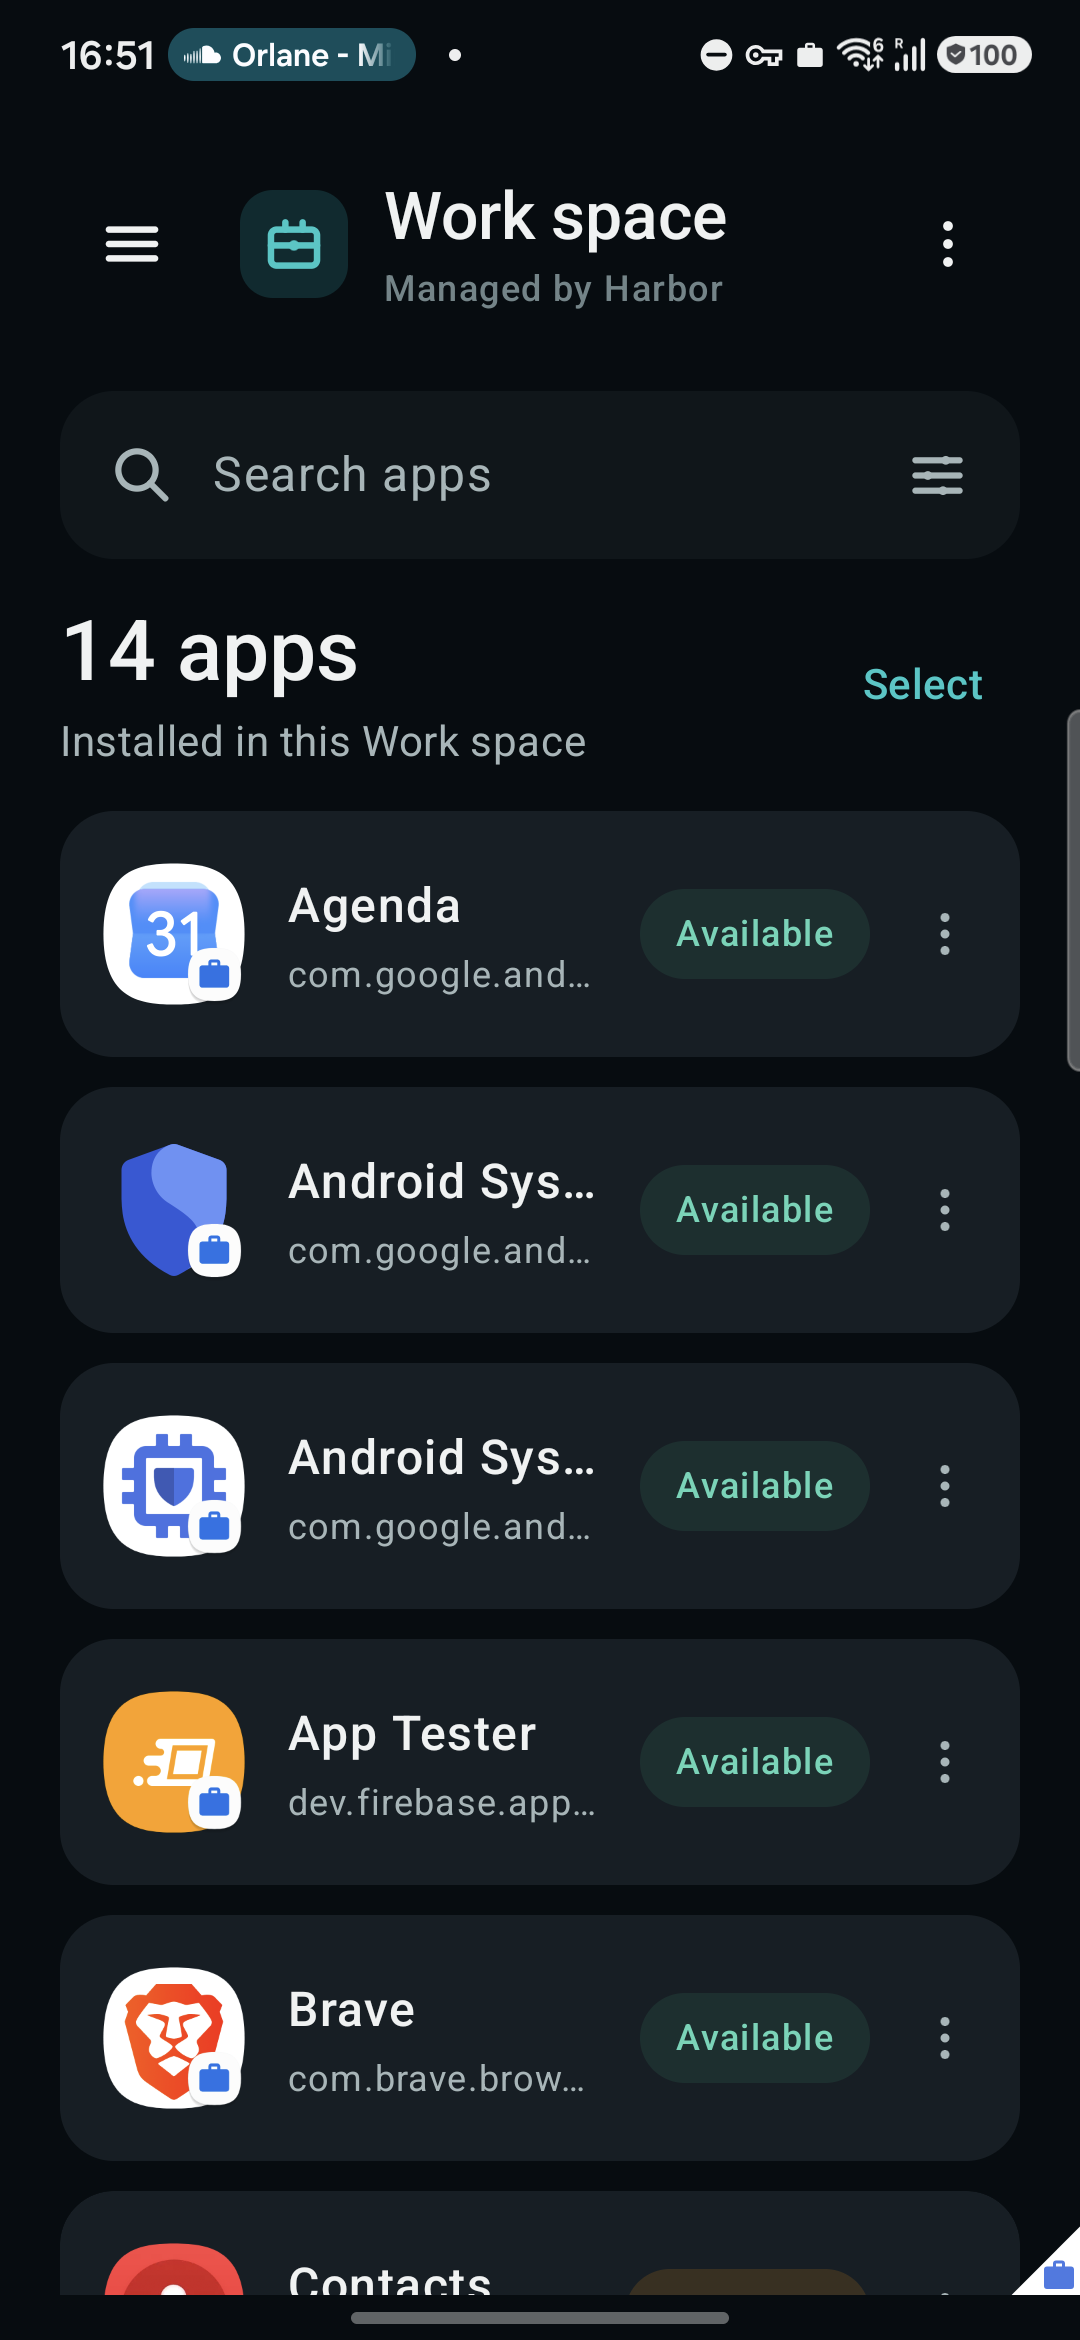
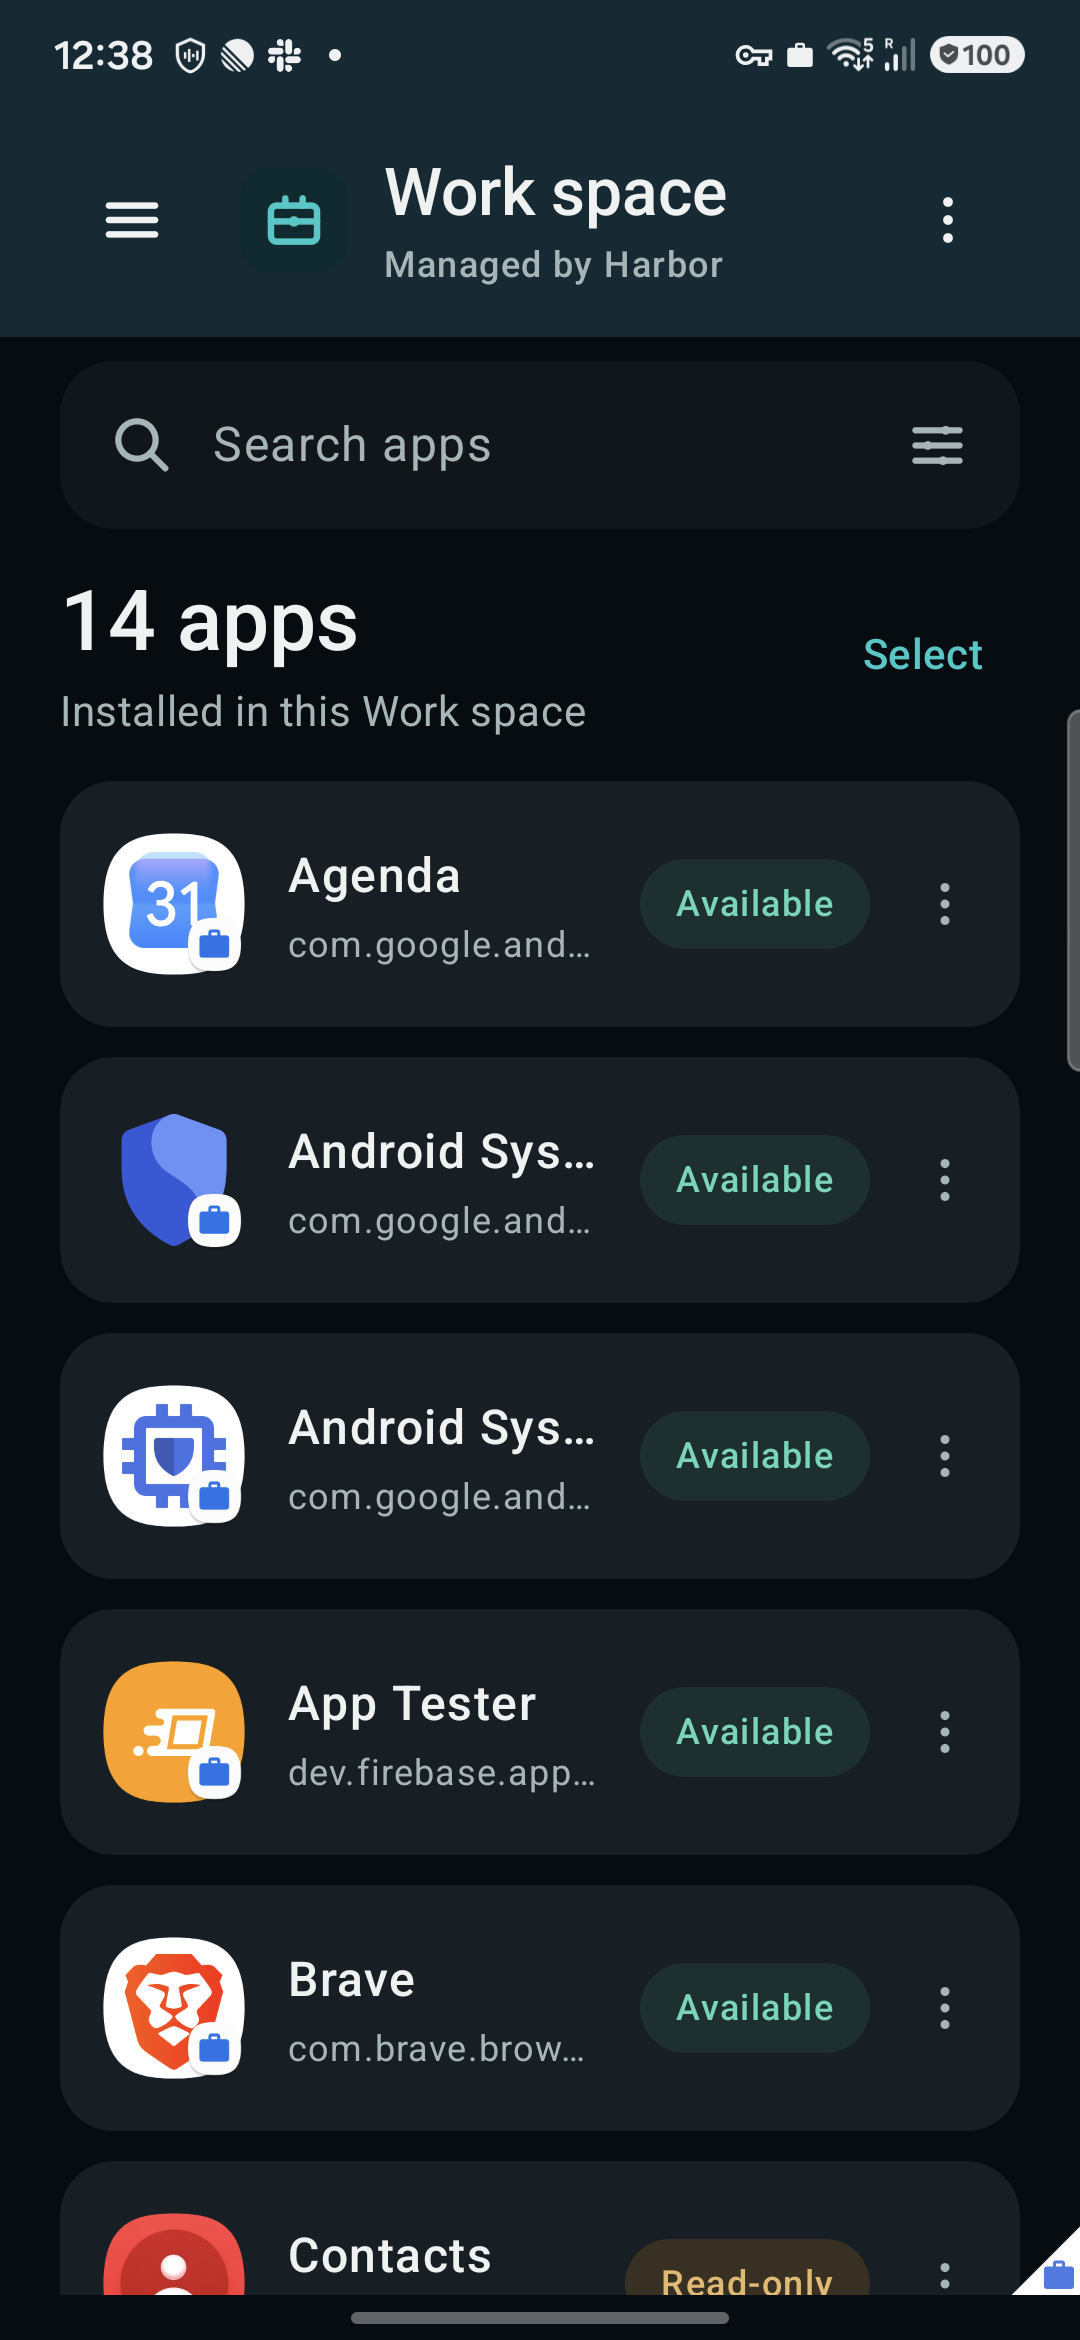
Record final Work profile validation

diff --git a/docs/design/PR6_FINAL_VALIDATION_CHECKLIST.md b/docs/design/PR6_FINAL_VALIDATION_CHECKLIST.md
@@ -8,7 +8,7 @@ Do not mark an item as passed unless it was actually exercised on the recorded b
 
 - Latest final code head: `1625232`
 - Latest physically validated Personal runtime: `1625232`
-- Latest physically validated Work runtime: `74d601c` (Samsung does not permit replacing the Work APK with ADB shell)
+- Latest physically validated Work runtime: `1625232`
 - APK/build: `app/build/outputs/apk/release/app-release-unsigned.apk` — version `0.2.0-alpha05` (versionCode `7`)
 - Date: `2026-08-13`
 - Tester: `Codex` — automated checks plus Samsung Galaxy S24 smoke test via ADB
@@ -28,13 +28,12 @@ Do not mark an item as passed unless it was actually exercised on the recorded b
 
 ## Physical-device execution status
 
-Physical validation is **PARTIAL**. The signed hero-background review-fixes build is installed
-for Personal user `0`; the Personal hero, Open Work navigation, normal and
-200% font-scale layouts, and the launcher/app-info icon were exercised. The
-Open Work callback opened the existing Harbor instance as user `12`. Samsung
-blocks ADB shell installation targeted at work-profile user `12`, so the Work
-instance remains on the previously installed runtime and Work-specific checks
-are not claims about the final APK.
+Physical validation is **PARTIAL**. The final signed build was installed for
+both profiles with `adb install -r <apk>` and no `--user` argument. Personal
+user `0` and Work profile user `12` remained installed, and the real Open Work
+callback opened the final Work instance. The final Personal hero and final Work
+header/catalog were exercised on the Samsung S24. Selection, large-font Work
+actions, and bottom-sheet interaction checks remain pending.
 
 ## Visual validation
 
@@ -42,7 +41,7 @@ are not claims about the final APK.
 - [x] Dark theme: no clipping, overlap, illegible contrast, or broken surfaces.
 - [x] Large font / approximately 200%: primary actions remain visible and usable after scrolling.
 - [x] Long app labels do not break the compact Work app rows.
-- [ ] Bottom sheets remain scrollable and dismiss correctly (final Work build pending).
+- [ ] Bottom sheets remain scrollable and dismiss correctly (interaction not exercised in this pass).
 - [x] Status pills remain readable and are not color-only.
 - [x] Destructive actions are clearly distinguishable.
 
@@ -52,8 +51,8 @@ Samsung Galaxy S24 / Android 16 screenshots were captured at 1080×2340. Harbor
 keeps the Direction 2 surfaces dark when Android switches to light mode; the
 screen remained readable. At 200% font scale, the final build's primary CTA and
 quick-action tiles remained reachable by scrolling; the bottom navigation stayed
-usable and labels remained readable. The Work app action sheet was observed on
-the previous Work-profile runtime, not the final APK.
+usable and labels remained readable. Work catalog scrolling was exercised on the
+final Work runtime; bottom-sheet interaction remains pending.
 
 Targeted Direction 2 polish validation on the same signed alpha05 build:
 
@@ -87,9 +86,8 @@ validation is recorded below.
 
 Large-font validation was performed on the final Personal runtime and passed
 for the Personal hero, CTA, quick actions, and bottom navigation. TalkBack
-validation remains untested. Final-build Work large-font validation remains
-pending because Samsung does not allow the final APK to be installed into the
-Work user through ADB shell.
+validation remains untested. Final-build Work large-font selection and sheet
+checks remain pending even though the final Work APK is now installed.
 
 ## Personal dashboard
 
@@ -107,7 +105,7 @@ Work user through ADB shell.
 Persistent-header and Work accessibility checks:
 
 - [x] Personal branded header is visible on the full-width blue/teal surface and remains visible while dashboard content scrolls.
-- [ ] Work branded header is visible on the full-width blue/teal surface and remains visible while app catalog scrolls (final Work build pending).
+- [x] Work branded header is visible on the full-width blue/teal surface and remains visible while app catalog scrolls.
 - [ ] Entering selection replaces the Work header with the selection header.
 - [ ] Exiting selection restores the Work branded header.
 - [ ] Selection header remains usable at approximately 200% font.
@@ -119,9 +117,9 @@ Persistent-header and Work accessibility checks:
 Notes / untestable states:
 
 On the Samsung S24, Personal showed the active Harbor-managed Work state and
-the Manage action launched `com.monstera.harbor/.MainActivity` as user 12.
-The Personal file action was visible. Provisioning, blocked states, and
-additional-workspace cases remain untested.
+the Manage action launched the final `com.monstera.harbor/.MainActivity` as
+user 12. The Personal file action was visible. Provisioning, blocked states,
+and additional-workspace cases remain untested.
 
 ## Work app manager
 
@@ -233,7 +231,7 @@ Only complete this section after the UI validation above is accepted.
 
 - [x] Capture final Personal screenshot on a physical device.
 - [x] Capture a physical Work screenshot from a previously validated runtime.
-- [ ] Capture a final-current-build Work screenshot.
+- [x] Capture a final-current-build Work screenshot.
 - [x] Replace matching files under `docs/screenshots/`.
 - [x] Replace matching Fastlane phone screenshots.
 - [ ] Verify README renders the updated screenshots correctly.
@@ -241,12 +239,10 @@ Only complete this section after the UI validation above is accepted.
 
 Screenshot notes:
 
-The Personal hero was freshly captured from the signed review-fixes runtime on the
-Samsung S24. The checked-in Work screenshots remain historical physical evidence
-tied to `dba967f`, not the final-current Work runtime,
-because Samsung blocked direct ADB installation into user `12`; the final Work
-APK could not be installed for a replacement screenshot. README rendering was
-not exercised here.
+The Personal hero and Work screenshot were captured from the final signed
+runtime on the Samsung S24. The Work screenshot shows the current blue/teal
+header and app catalog after the successful all-user USB replacement. README
+rendering was not exercised here.
 
 ## Application identity
 
